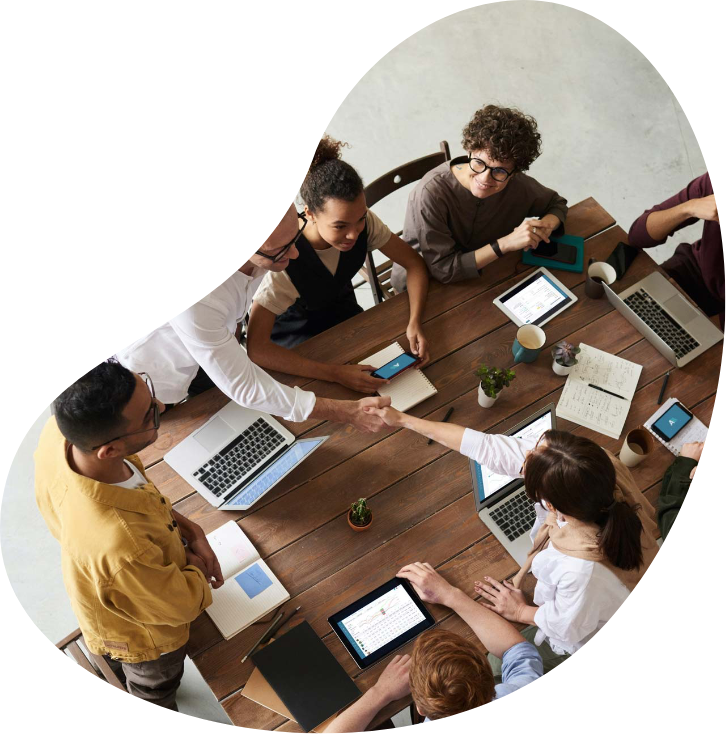
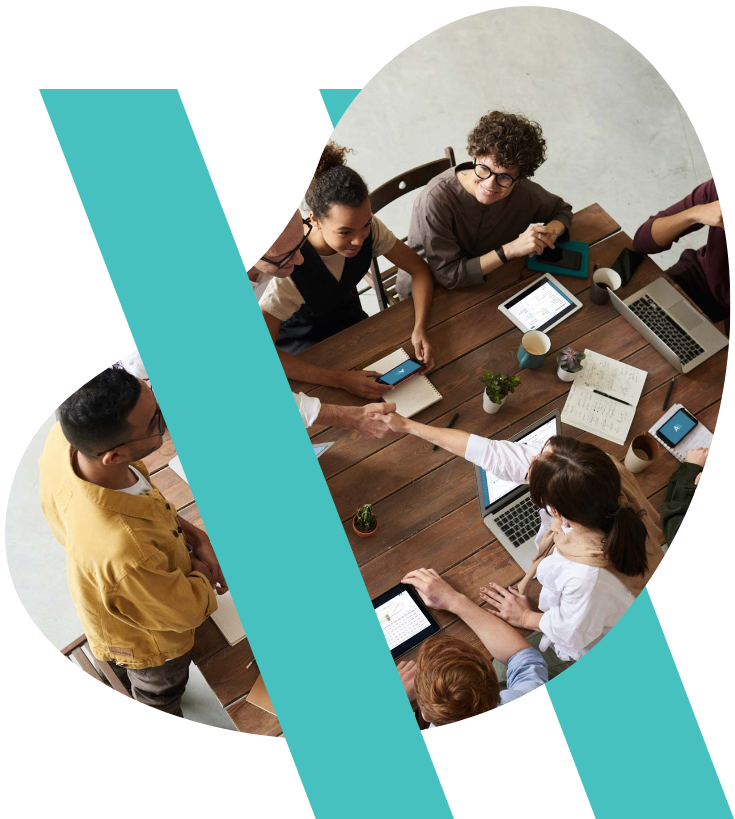
respo fix, added new image

diff --git a/css/main.css b/css/main.css
@@ -65,49 +65,30 @@ input[type="submit"] {
 }
 
 .right {
-    background: var(--grey)
-}
-
-.right.low-height .row {
-    margin: 300px auto 0;
+    background: var(--grey);
+    display: flex;
+    justify-content: center;
+    align-items: center;
 }
 
 .left {
     background: var(--light)
 }
 
+.img-section {
+    height: 100%;
+}
+
 .img {
-    transform: translate(20%, 25%)
-}
-
-.img.low-height {
-    transform: scale(0.8) translate(20%, 15%)
-}
-
-.img img {
-    position: relative;
-    z-index: 2
-}
-
-.img:before {
-    content: url("../images/pattern-before.svg");
-    position: absolute;
-    top: 70px;
-    left: 305px;
-    width: 100%;
-}
-
-.img:after {
-    content: url("../images/pattern-after.svg");
-    position: absolute;
-    top: 70px;
-    left: 35px;
-    z-index: 3;
+    display: inline-block;
+    display: flex;
+    justify-content: center;
+    align-items: center;
+    height: 100%;
 }
 
 .right .row {
     width: 545px;
-    margin: 420px auto 0;
 }
 
 .coming-soon {
@@ -192,44 +173,26 @@ input[type="submit"] {
     outline: none;
 }
 
-@media (max-width: 1600px) {
-    .img {
-        transform: translate(5%, 20%);
+@media (max-width: 1980px) {
+    .img img {
+        width: 65%;
     }
-    .img.low-height {
-        transform: scale(0.6) translate(5%, 20%);
+}
+
+@media (max-width: 1400px) {
+    .logo {
+        top: 64px;
+        left: 54px;
     }
-    .right .row,
-    .right.low-height .row {
+}
+
+@media (max-width: 1315px) {
+    .right .row {
         width: 100%;
-        margin: 75px auto 0;
-    }
-}
-
-@media (max-width: 1370px) {
-    .img {
-        transform: scale(0.8) translate(5%, 25%);
-    }
-    .img.low-height {
-        transform: scale(0.6) translate(5%, 20%);
-    }
-}
-
-@media (max-width: 1200px) {
-    .img {
-        transform: scale(0.6) translate(0%, 25%);
-    }
-    .img.low-height {
-        transform: scale(0.6) translate(0%, 20%);
     }
 }
 
 @media (max-width: 991px) {
-    .right .row,
-    .row.low-height .row {
-        flex-direction: column;
-        margin: 40px auto 0;
-    }
     .logo {
         position: unset;
         margin-bottom: 60px;
@@ -237,12 +200,14 @@ input[type="submit"] {
     .coming-soon {
         margin-bottom: 12px;
     }
+    .right .row {
+        flex-direction: column;
+    }
 }
 
 @media (max-width: 568px) {
-    .right .row,
-    .right.low-height .row {
-        margin: 20px auto 0;
+    .right .row {
+        width: 100%;
     }
     .title h1 {
         font-size: 32px;
@@ -262,5 +227,9 @@ input[type="submit"] {
     .form .beforesubmit .input {
         width: 100%;
         margin: 10px 0;
+    }
+    .title h1 {
+        font-size: 28px;
+        line-height: 34px;
     }
 }

diff --git a/index.html b/index.html
@@ -47,7 +47,7 @@
 <body>
     <div class="container-fluid h-100">
         <div class="row h-100">
-            <div class="col-12 col-lg-7 left d-none d-lg-block">
+            <div class="col-12 col-lg-7 left d-none d-lg-block overflow-hidden">
                 <div class="logo">
                     <img src="images/logo.svg" alt="">
                 </div>
@@ -59,7 +59,7 @@
             </div>
             <div class="col-12 col-lg-5 right">
                 <div class="container">
-                    <div class="row">
+                    <div class="row m-auto">
                         <div class="logo d-block d-lg-none">
                             <img src="images/logo.svg" alt="">
                         </div>
